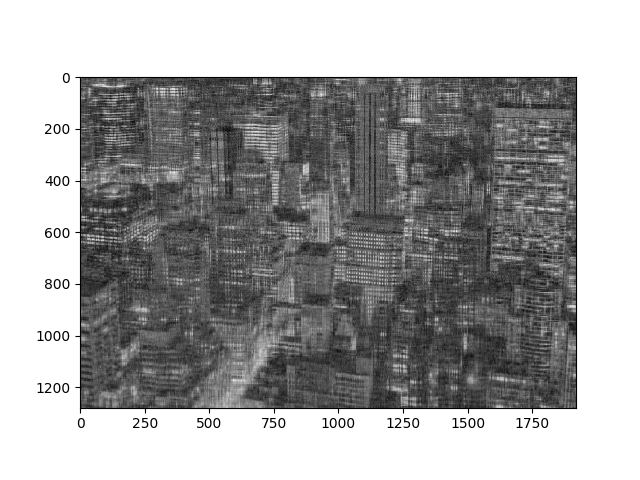
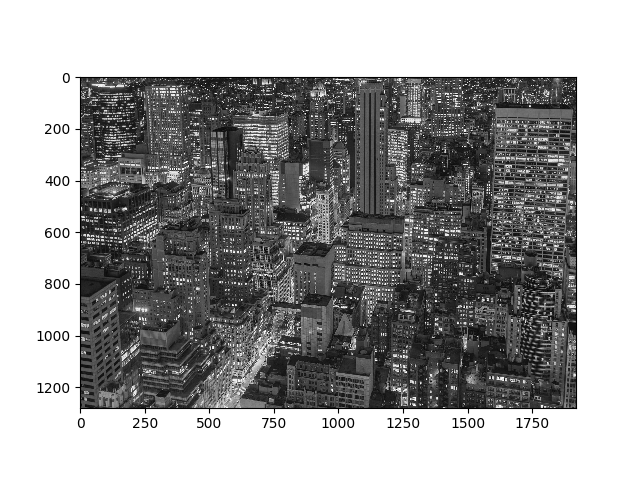
Modified compressed new york image. Report done.

Changed region(s): [[0.125, 0.1562, 0.9062, 0.875]]

diff --git a/oblig2/report/oblig2.tex b/oblig2/report/oblig2.tex
@@ -51,13 +51,92 @@
 \maketitle
 
 \section{Introduction}
+In this work, compression of grayscale images using Singular Value
+Decomposition (SVD) is studied. Three images are used: 
+\begin{itemize}
+	\item \href{https://pixabay.com/en/board-chess-chessboard-black-white-157165/}{A chessboard}
+	\item \href{https://pixabay.com/en/jellyfish-under-water-sea-ocean-698521/}{A submerged jellyfish}
+	\item \href{https://pixabay.com/en/new-york-city-skyline-nyc-690868/}{An image of New York}
+\end{itemize}
+When applying SVD to an $n\times m$ matrix, a number of the singular values
+will have a very small contribution to the reconstruction of the original
+matrix. These singular values can be removed, effectively discarding 
+information from the images that isn't very important.
+The compression ratio
+\begin{equation}
+	\text{compression ratio} = \frac{\text{original size}}{\text{compressed size}}
+\end{equation}
+is studied as a function of $n$, $m$, and $r$, where $r$ is the number of
+singular values kept.
+The code used to produce the results and plots is available on GitHub:\\ 
+\url{https://github.com/geirtul/mat4110/blob/master/oblig2/analysis.py}
+\section{Results and Discussion}
+Figure \ref{fig:comp-r} shows how the compression ratio for the three images
+varies when varying $r > 5$. Below these values the compression follows the
+same trend, but for the chessboard it rises far more sharply than for the
+other images. This is to be expected, since the chessboard image is
+essentially just $8\times 8$ pixels, even though the images has a higher
+resolution than that.
+
+For the other two images it seems the compression ratio will approach
+that of the chessboard as $r$ approaches the total number of singular
+values. This is also expected, as a compression ratio of 1 indicates
+no compression.
+
+Looking at the compression ratio as a function of $n$ and $m$, in
+figure \ref{fig:comp-nm} we see that the general trend is that it
+increases when reducing the number of colums or rows.
+However, for the jellyfish and new york images, the ratio decreases for the
+first $~200$, before it follows the same trend and the rest. The reason
+for this is not known, but it could be an implementation error.
+
+A compressed version of each image is presented along with its original
+(in grayscale) in figures 
+\ref{fig:comparison-chess}, \ref{fig:comparison-jelly}, \ref{fig:comparison-ny}.
 
 \section{Figures}
 \begin{figure}[h]
-	\includegraphics[width = \textwidth]{figures/something.pdf}
-	\caption{Useful caption for the presented figure.}
-	\label{fig:something}
+	\includegraphics[width = \textwidth]{figures/compression_ratio_r.pdf}
+	\caption{Compression ratio as a function of the number of singular
+	values $r > 5$ kept. Values of $r$ lower than 5 kept out for 
+	esthetic reasons.}
+	\label{fig:comp-r}
+\end{figure}
+\begin{figure}[h]
+	\includegraphics[width = \textwidth]{figures/compression_ratio_nm.pdf}
+	\caption{Compression ratio as a function of $n$ and $m$. Increasing $n$ and $m$ corresponds to removing $n$ rows or $m$ columns from the image before compression with SVD. $r = const. = 40$.}
+	\label{fig:comp-nm}
 \end{figure}
 
+\begin{figure}[h]
+	\begin{align*}
+		\includegraphics[width = 0.8\textwidth]{figures/chessboard_compressed} \\
+		\includegraphics[width = 0.8\textwidth]{figures/chessboard_noncompressed}
+	\end{align*}
+	\caption{Comparison of the compressed (top) and uncompressed 
+	(bottom) chessboard image. The images were both output in the 
+	png format in grayscale. $r = 20$.}
+	\label{fig:comparison-chess}
+\end{figure}
+\begin{figure}[h]
+	\begin{align*}
+		\includegraphics[width = 0.8\textwidth]{figures/jellyfish_compressed} \\
+		\includegraphics[width = 0.8\textwidth]{figures/jellyfish_noncompressed}
+	\end{align*}
+	\caption{Comparison of the compressed (top) and uncompressed 
+	(bottom) jellyfish image. The images were both output in the 
+	png format in grayscale.$r=50$}
+	\label{fig:comparison-jelly}
+\end{figure}
+\begin{figure}[h]
+	\begin{align*}
+		\includegraphics[width = 0.8\textwidth]{figures/new_york_compressed} \\
+		\includegraphics[width = 0.8\textwidth]{figures/new_york_noncompressed}
+	\end{align*}
+	\caption{Comparison of the compressed (top) and uncompressed 
+	(bottom) jellyfish image. The images were both output in the 
+	png format in grayscale. $r=100$}
+	\label{fig:comparison-ny}
+\end{figure}
 
 \end{document}
